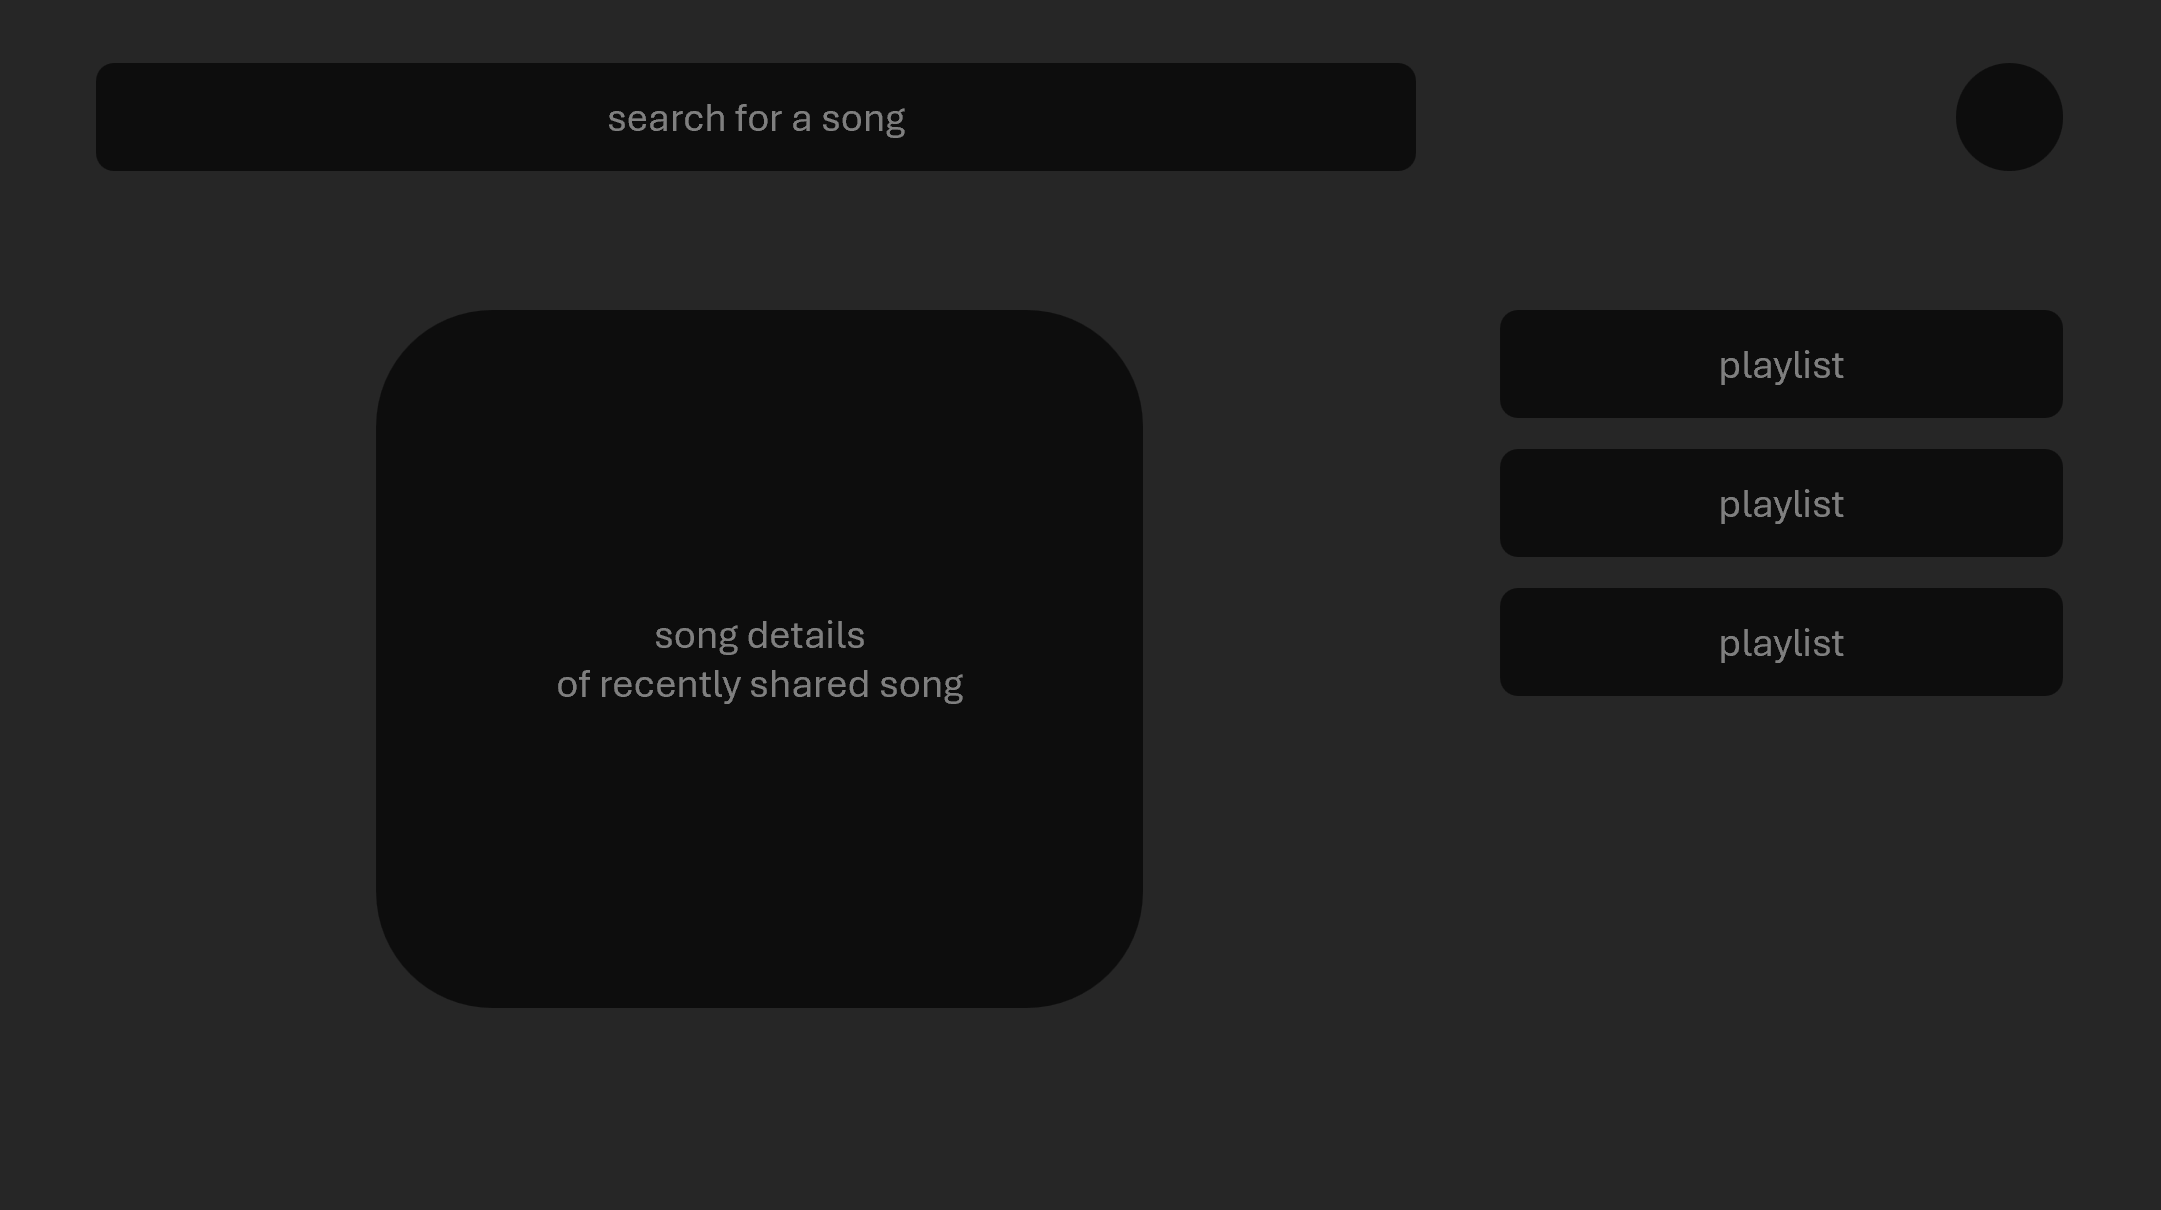
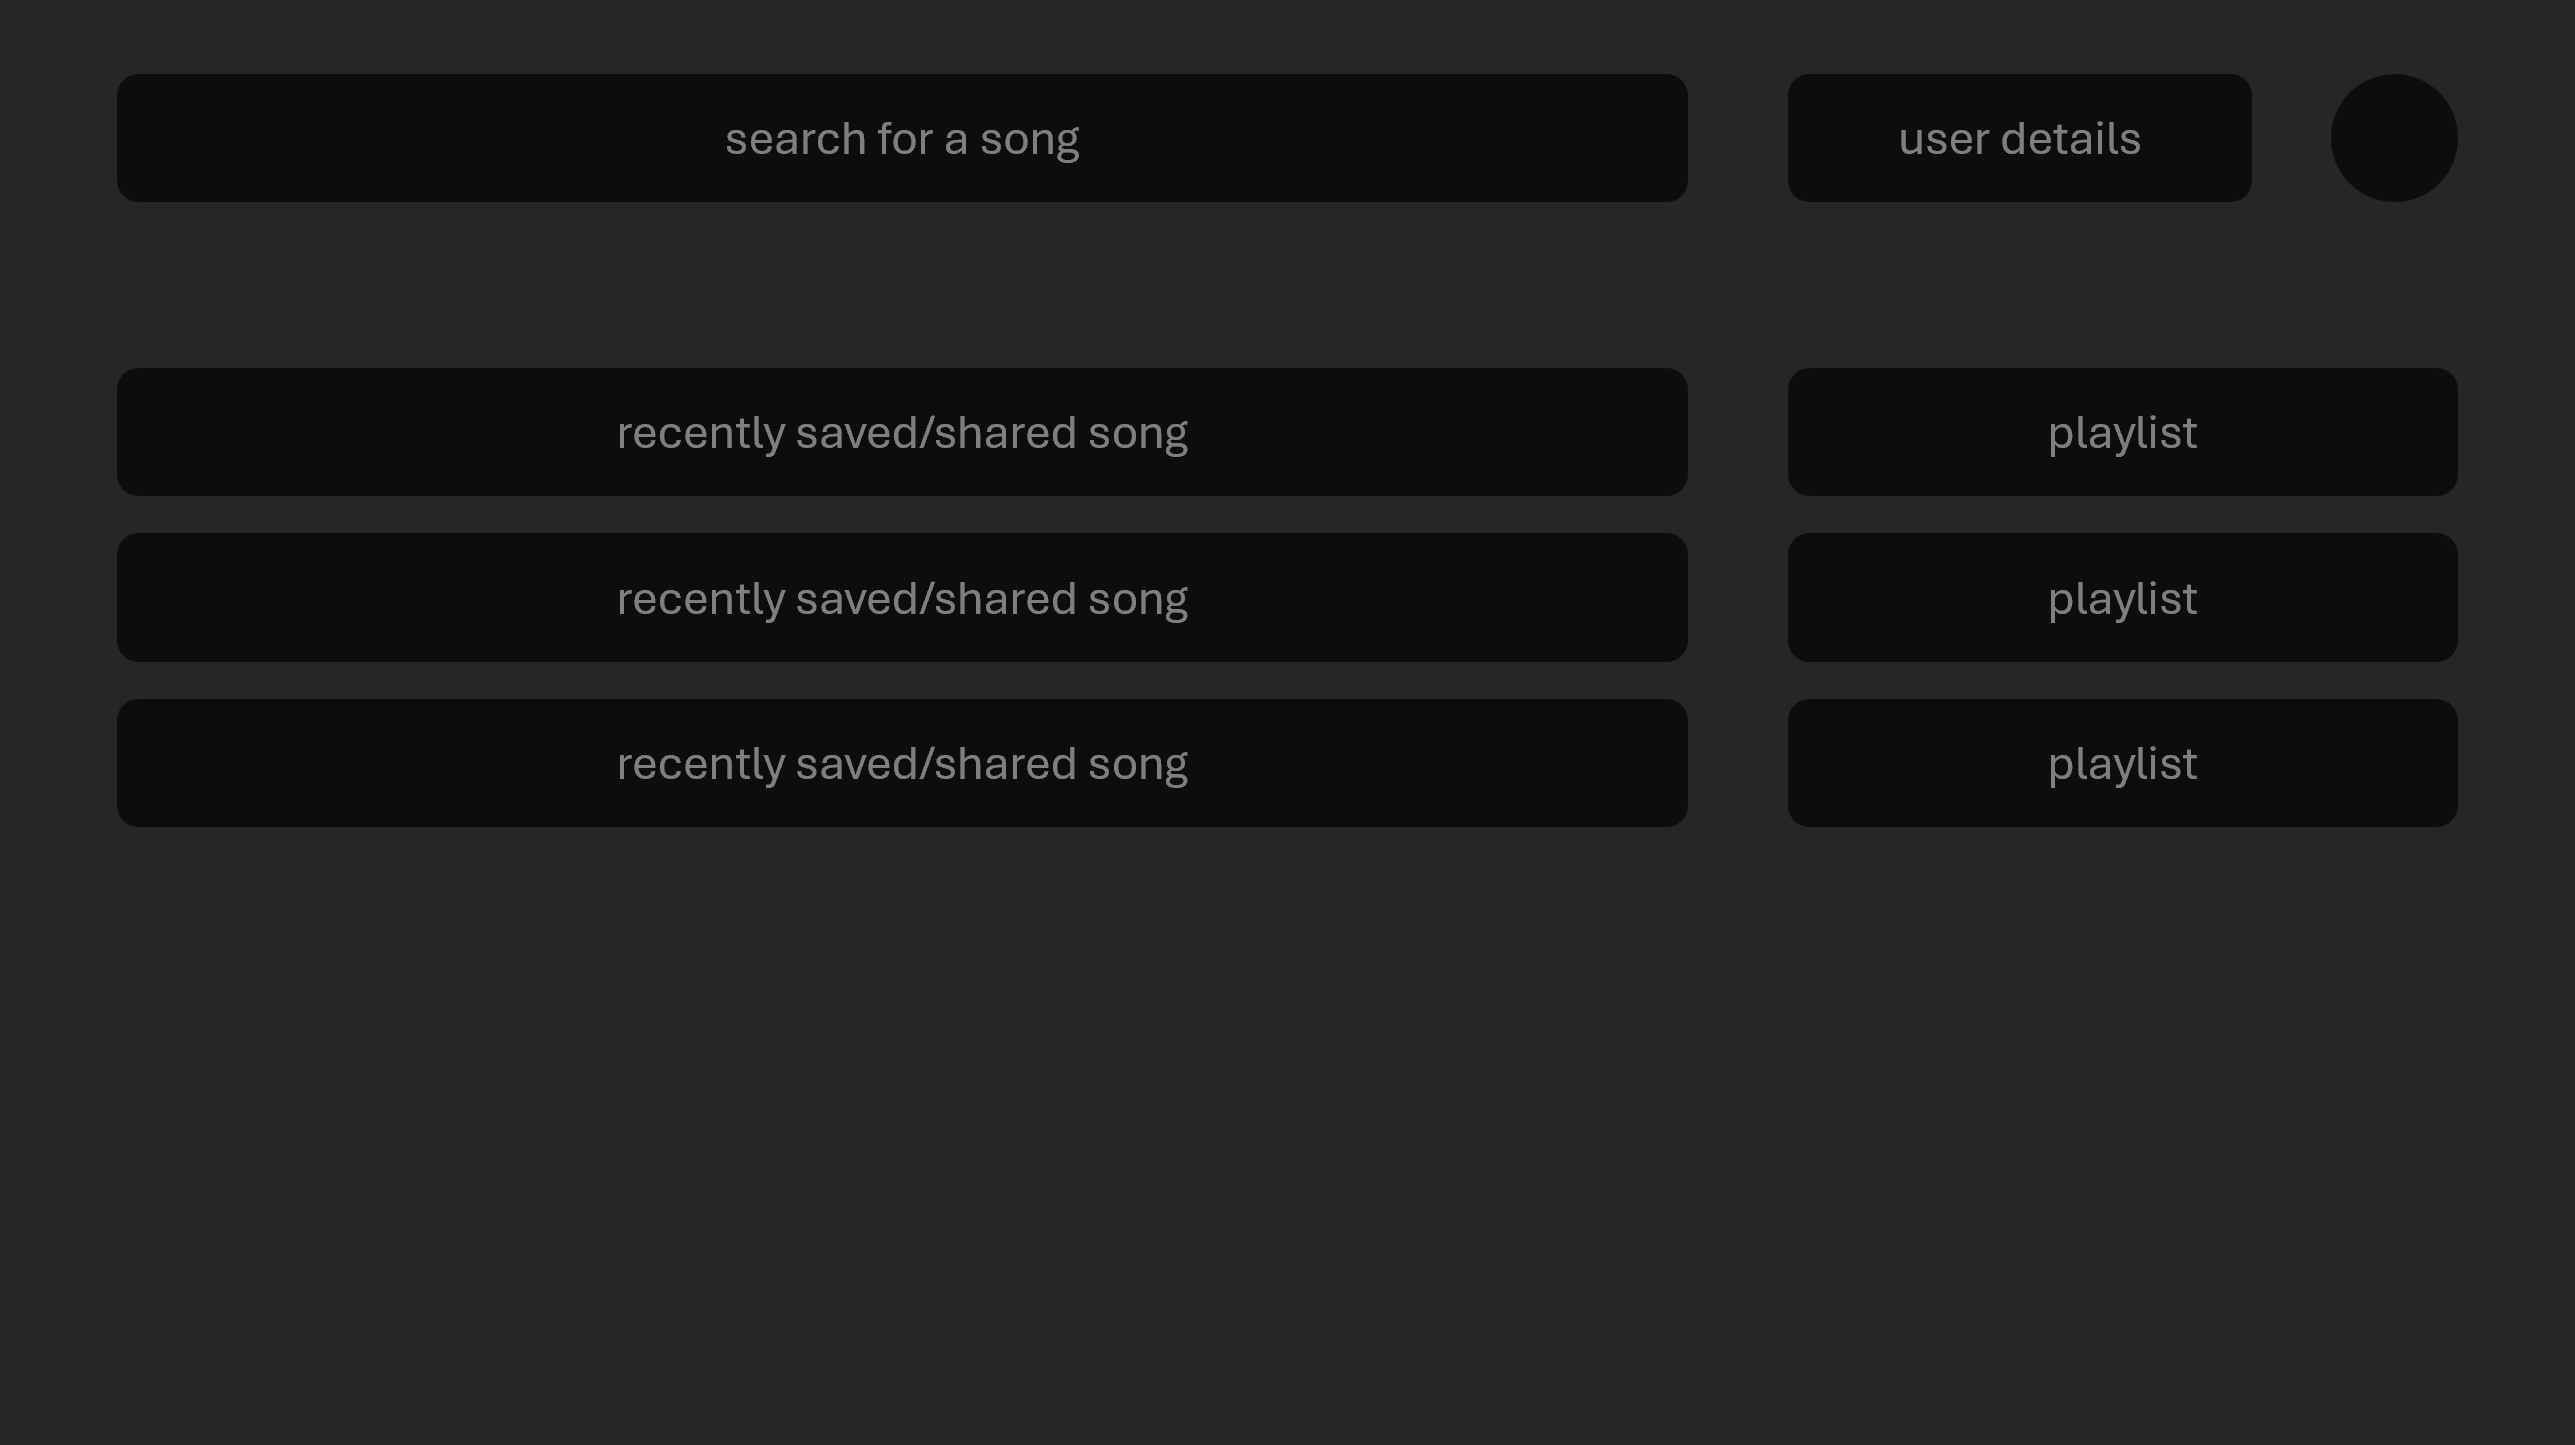
Update project spec in README

diff --git a/README.md b/README.md
@@ -6,7 +6,7 @@ HearHere is a social media app for sharing songs and playlists with friends and 
 
 ### Problem
 
-How many times have you heard a friend play a song and then wonder what song it was? How many times have you been at a part or event where the DJ was playing a great music, only to never find that playlist again? Herehere aims to solve that problem by providing a platform for just that - a place to share and save music.
+How many times have you heard a friend play a song and then wonder what song it was? How many times have you been at a part or event where the DJ was playing great music, only to never find that playlist again? HereHere aims to solve that problem by providing a platform for just that - a place to share and save music.
 
 ### User Profile
 
@@ -20,9 +20,11 @@ How many times have you heard a friend play a song and then wonder what song it 
     - Search for songs
     - Sign up for an account
 - Logged in user
+    - Search for songs
     - Save individual songs
     - Save and update playlists
-    - Share a song or playlist with another user
+    - Share a song or playlist (to feed/to user)
+    - Change basic user info
 
 ## Implementation
 
@@ -39,16 +41,18 @@ Back End:
 
 ### APIs
 
-- Possible use of the Spotify API
-- Will create and use a custom API
+- Spotify API: search for songs and get basic track data
+- Custom API: handle user, song, and playlist data
 
 ### Sitemap
 
-- Home Page/Browse
-- Sign Up Page
-- Login Page
-- Saved Songs Page
-- Saved Playlists Page
+- Login page
+- Sign up page
+- Landing page
+- Song search page
+- Saved songs page
+- Saved playlist page
+- User page
 
 ### Mockups
 
@@ -61,6 +65,15 @@ Back End:
 #### Landing Page
 ![](/mockups/landing.png)
 
+#### Song Search Page
+![](/mockups/search.png)
+
+#### Saved Songs/Playlist Page
+![](/mockups/saved.png)
+
+#### User Page
+![](/mockups/user.png)
+
 
 ### Data
 
@@ -72,23 +85,44 @@ The database will contain a table for users, a table for playlists, and possibly
 - Will get information on a specific song
 
 **GET /playlist/:playlistId**
-- Will get information on a specific song
+- Will get a information on a specific playlist
 
 **POST /playlist/:playlistId/:songId**
-- Will add a song to a playlist
+- Will add a song to a specific playlist
 
 **DELETE /playlist/:playlistId/:songId**
-- Will remvoe a song from a playlist
+- Will remvoe a song from a specific playlist
+
+**GET /user/:userId**
+- Will get a user's basic info, saved songs, and playlists
+
+**PUT /user/:userId**
+- Will update a user's info, saved songs, and/or playlists
 
 ### Auth
 
-- Will use JWT auth
+- Will use basic string checks to begin with
 
 ## Roadmap
 
-Scope your project as a sprint. Break down the tasks that will need to be completed and map out timeframes for implementation. Think about what you can reasonably complete before the due date. The more detail you provide, the easier it will be to build.
+- Sprint 1: POC | Days 1-3
+    - Test Spotify API
+    - Create basic back end and endpoints
+    - Create skeletons for front end
+
+- Sprint 2: MVP | Days 3-6
+    - Add components and modularize pages
+    - Make pages dynamic with back end
+
+- Sprint 3: Polish | Days 6-10
+    - Add all remaining styling
+    - Bug test and stress test
+
+- Prep for presentation | Days 10-11
 
 ## Nice-to-haves
 
+- JWT auth
+- Song recommendations once one's been saved
 - Comment functionality
-- DM functionality
+- DM and/or live update functionality using Socket.io
